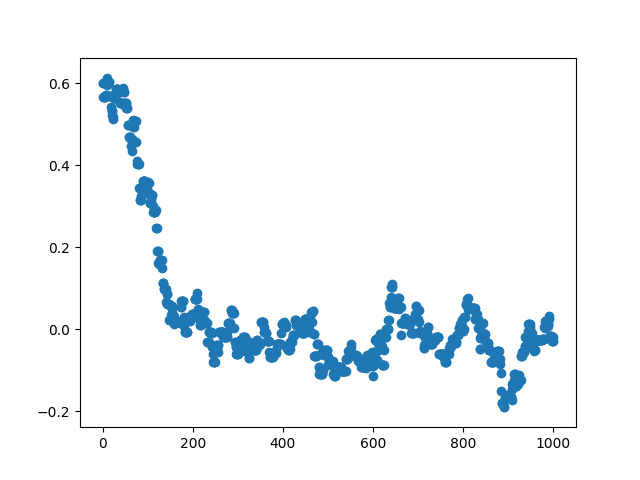
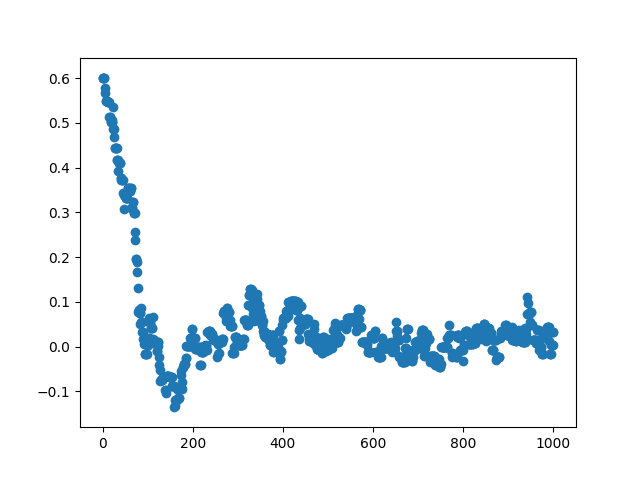
commented main

diff --git a/run.py b/run.py
@@ -133,19 +133,12 @@ def metropolis_decision(temp, old_energy, proposed_energy):
   :return: True to accept value, False to reject
   """
   diff = proposed_energy - old_energy
-  if temp == 0:
-    if diff <= 0:
-      return True  # choice was made that 0 difference -> accept change
-    else:
-      return False
-  else:
-    try:
-      probability = min(math.exp(- 1 * diff / temp), 1)
-    except OverflowError:
-      if -1 * diff / temp > 0:
-        probability = 1
-      else:
-        raise (OverflowError)
+  if diff <= 0:
+    return True  # choice was made that 0 difference -> accept change
+  elif diff > 0 and temp == 0:
+    return False
+  else
+    probability = math.exp(- 1 * diff / temp)
   assert probability >= 0
   assert probability <= 1
   if random.uniform(0, 1) <= probability:
@@ -256,7 +249,7 @@ def record_amplitude_vs_time(kappa, wavenumber, n_steps, method = "simultaneous"
   :return:
   """
   field_coeffs = dict([(i, rand_complex()) for i in range(-1 * num_field_coeffs, num_field_coeffs + 1)])
-  amplitude = .6
+  amplitude = .6   # TODO : pass in initial amplitude, field optionally
   amplitudes = [amplitude]
   se = ce.System_Energy()  # object stores A,B,D integral values -> less recalculate
   field_energy = se.calc_field_energy(field_coeffs, amplitude, radius=radius, n=n, alpha=alpha, C=C, u=u,
